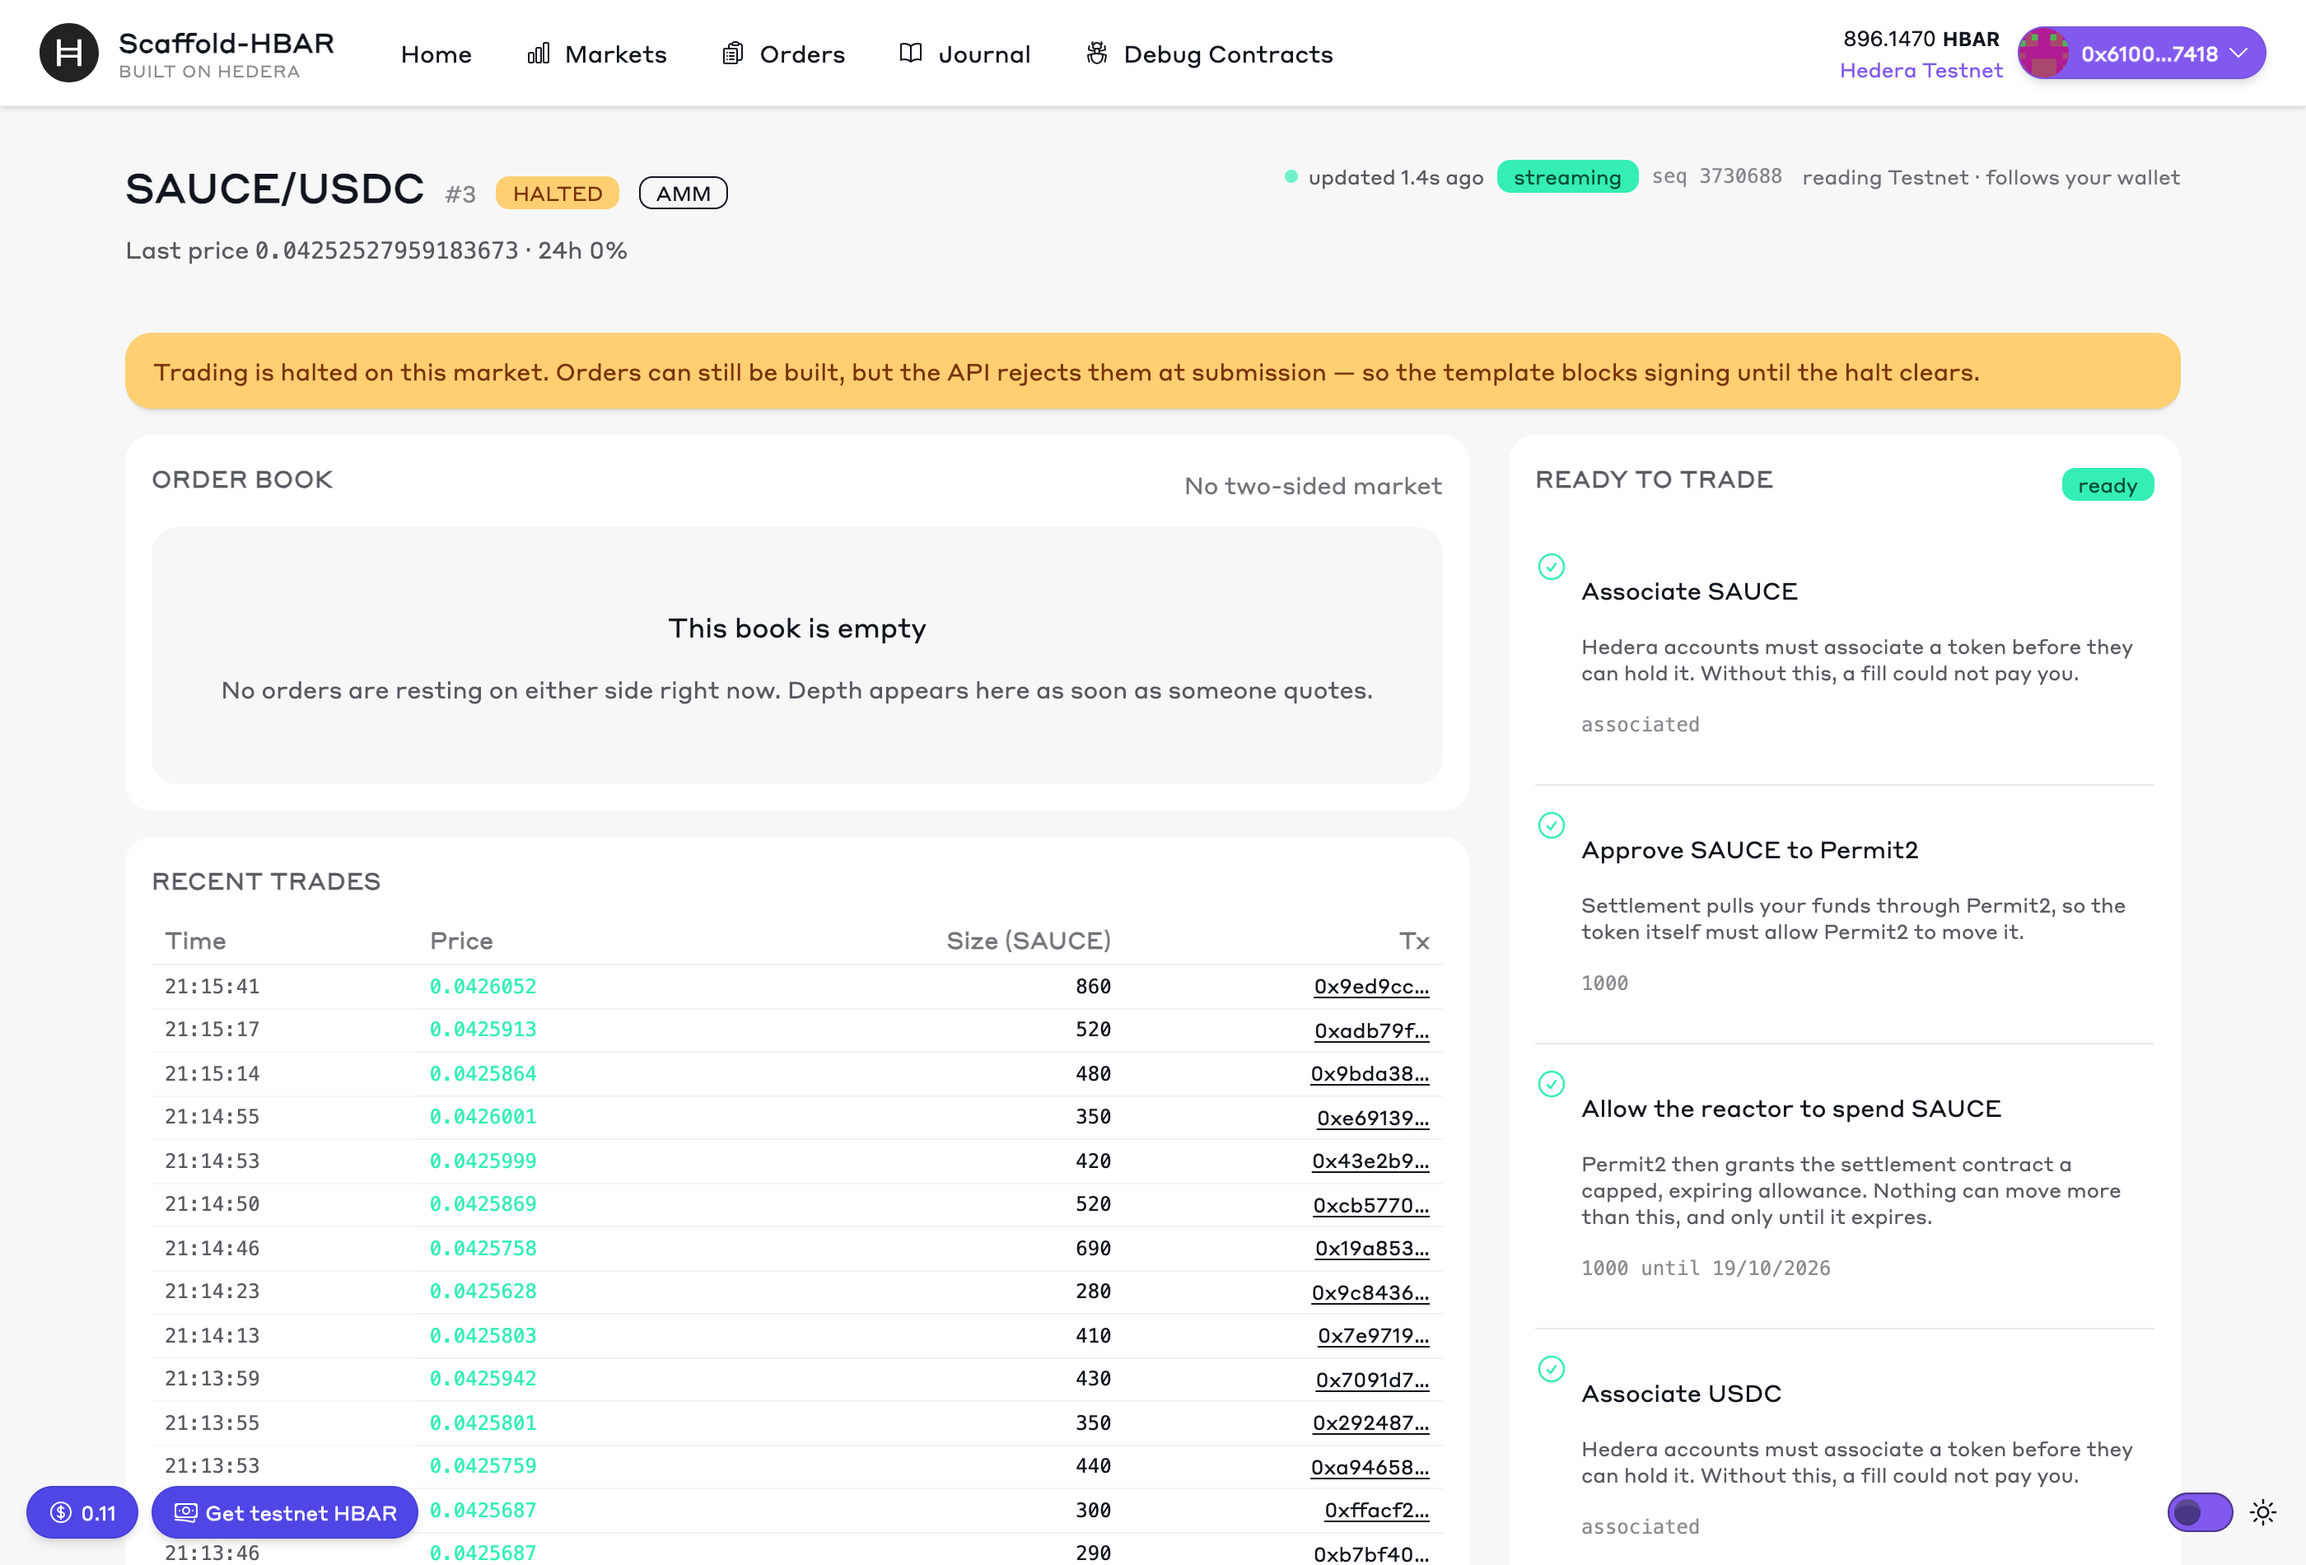
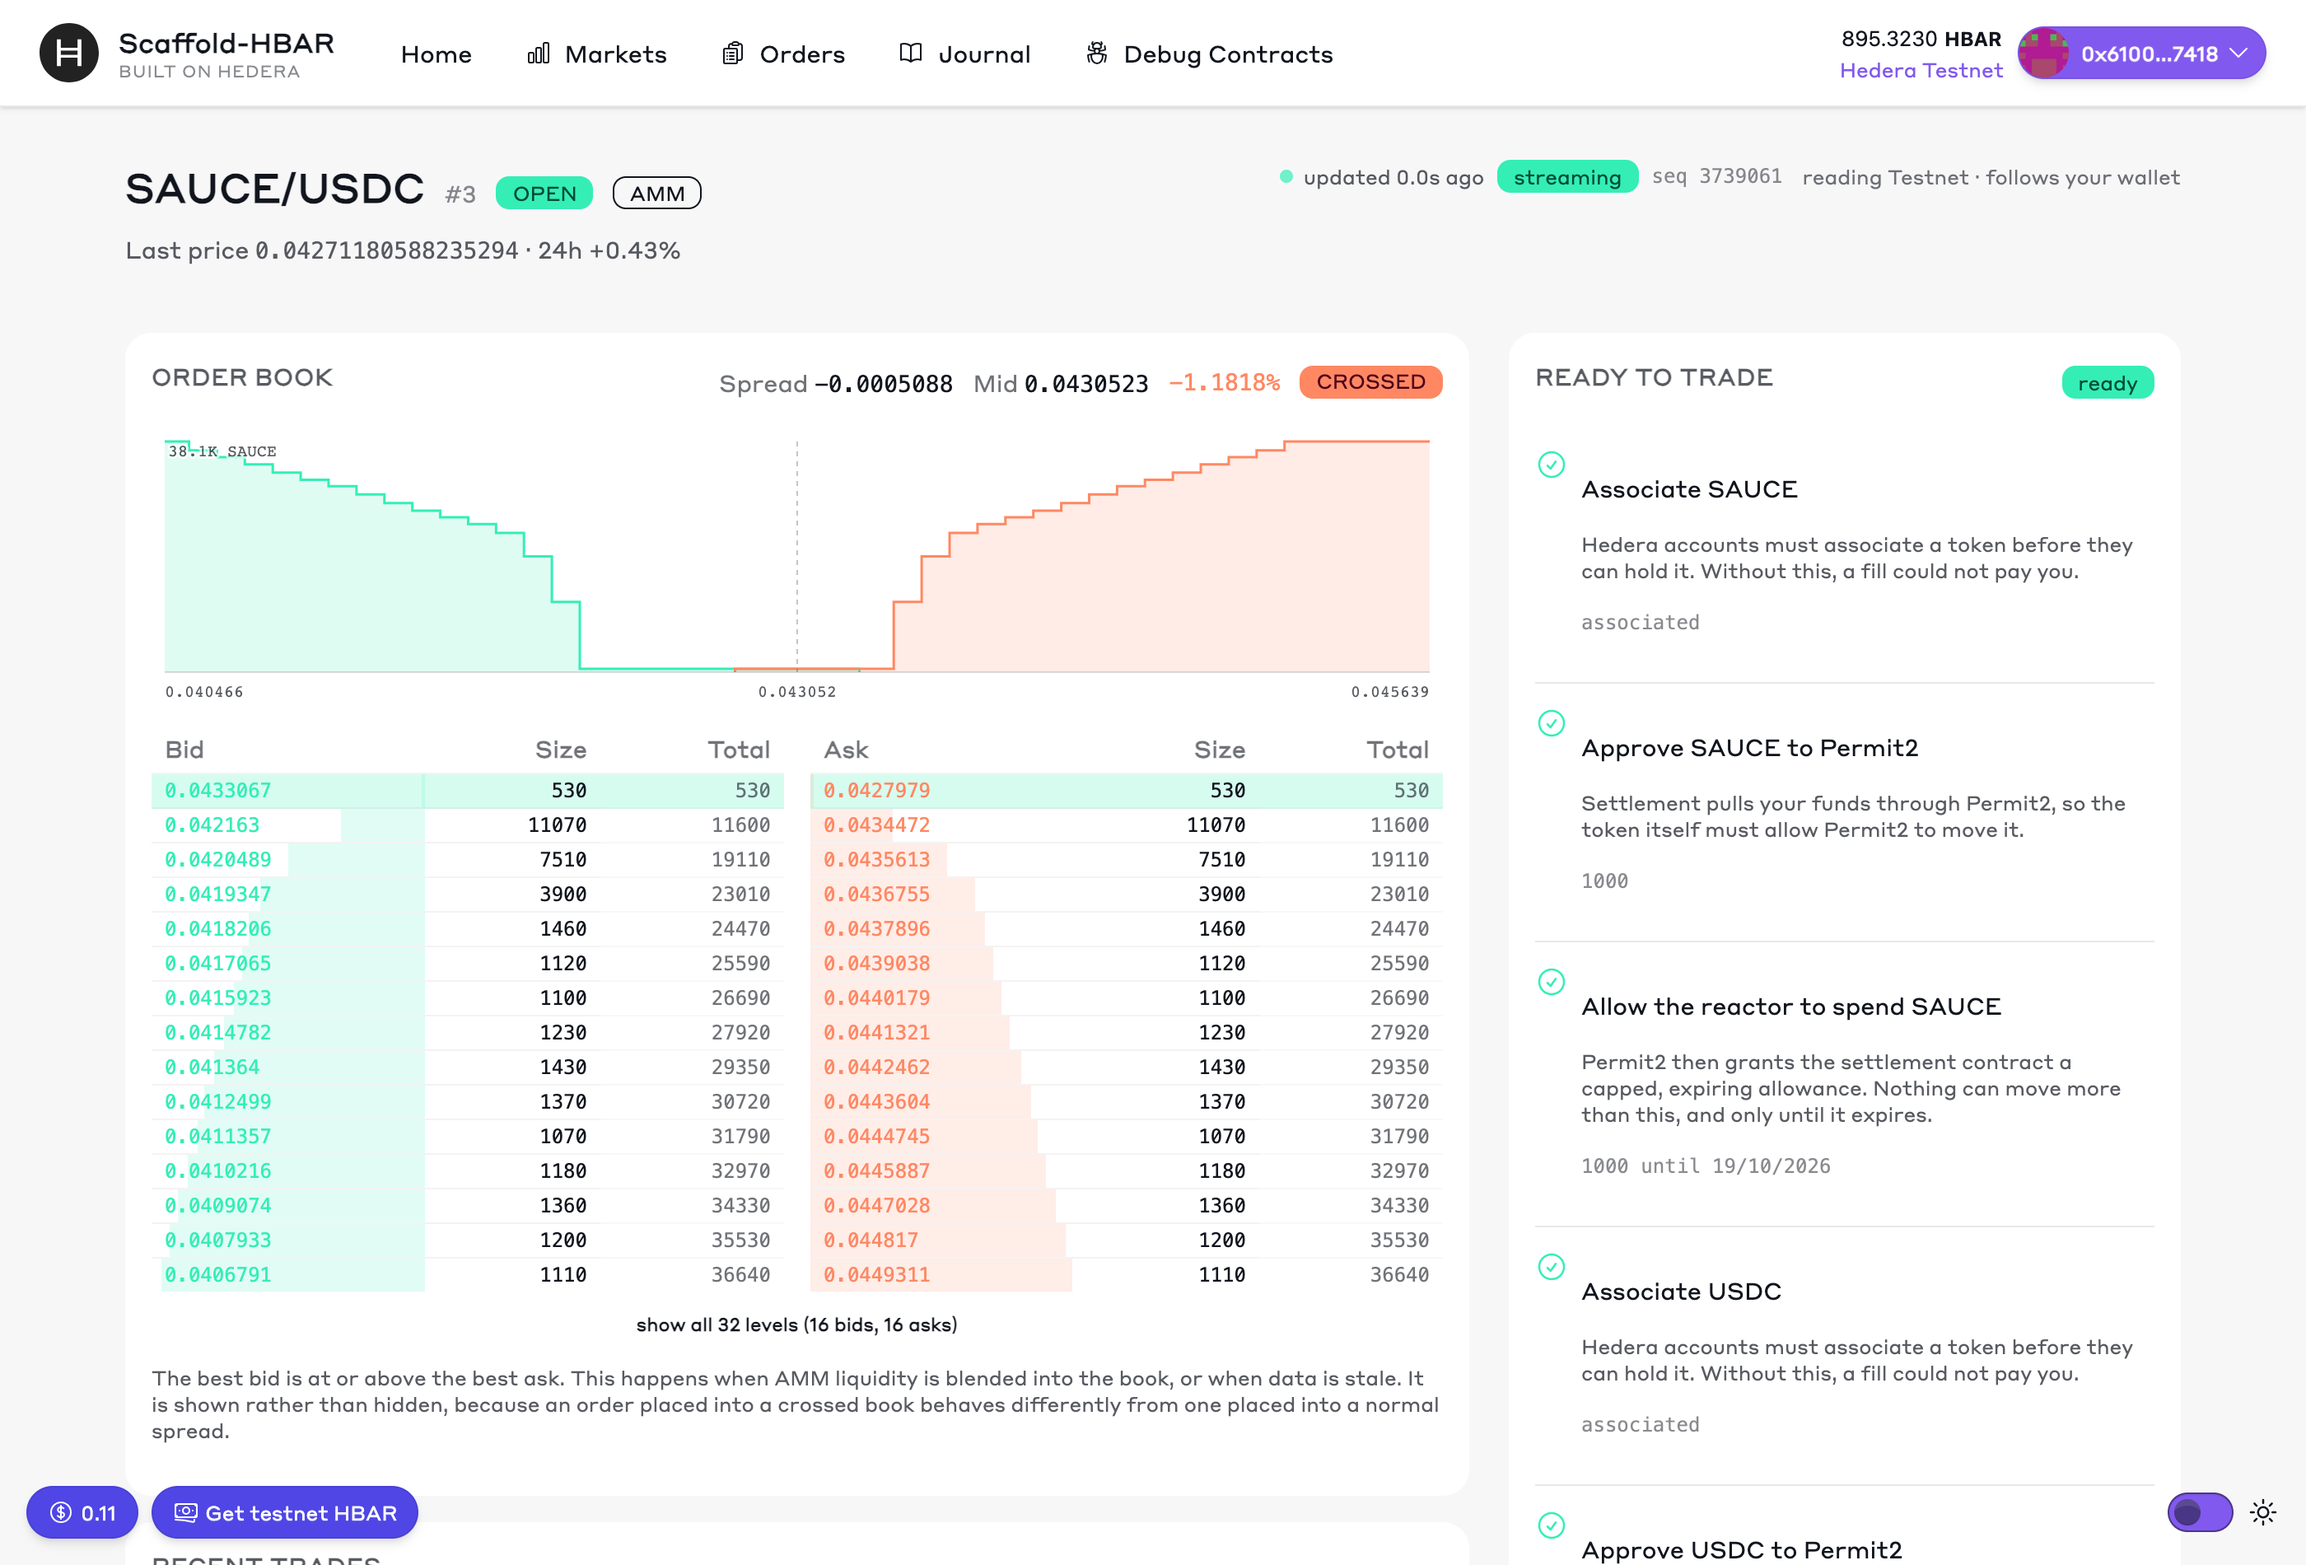
docs: screenshots from an open testnet, including a verified fill
Re-captured now that testnet book 3 has reopened: the wallet frame shows an
open market with a live book and the depth chart, the order ticket is ready
to submit, and the orders page lists real testnet orders, filled and
cancelled. Adds fill.png, the history of order 3506715 with its fill
verification passing, and a README passage explaining what the four checks
are. clob:shots now captures that frame whenever the account has a filled
order.

diff --git a/packages/hardhat/scripts/screenshots.ts b/packages/hardhat/scripts/screenshots.ts
@@ -145,6 +145,19 @@ const main = async () => {
     await settle("/Open \\(|Past \\(|No orders yet/.test(document.body.innerText)");
     await shot("orders");
 
+    // A verified fill, when the account has one: the most recent FILLED order's history,
+    // with the checks read from the settlement on-chain.
+    // Case-sensitive, so the "Filled" column header does not match; no word boundaries,
+    // because the text Playwright matches runs the cells together ("99.00%FILLEDhistory").
+    const filledRow = page.locator("tbody tr", { hasText: /FILLED/ }).first();
+    if (await filledRow.count()) {
+      await filledRow.getByRole("button", { name: "history" }).click();
+      await settle("/verified|check failed/.test(document.body.innerText)", 60_000);
+      await shotOf(page.locator("div.fixed > div").first(), "fill");
+      await page.getByRole("button", { name: "close" }).first().click();
+      await page.waitForTimeout(500);
+    }
+
     await page.getByRole("link", { name: "Journal" }).first().click();
     // Wait for the journal itself: the page being navigated away from also satisfies
     // "not loading", which is how an earlier run captured the orders page twice.

diff --git a/README.md b/README.md
@@ -114,9 +114,8 @@ contracts — rather than from the venue's view of your account.
 
 ![A market page with a wallet connected: depth streaming over the WebSocket, and all six onboarding steps green](docs/images/wallet.png)
 
-<p align="center"><em>Signed in: depth switches from polling to the WebSocket, and the six on-chain
-onboarding steps are checked against the chain. This market is halted, which the page says plainly
-rather than hiding.</em></p>
+<p align="center"><em>Testnet SAUCE/USDC, signed in: depth switches from polling to the WebSocket, and the
+six on-chain onboarding steps are checked against the chain.</em></p>
 
 The order ticket validates before it asks your wallet for anything: an off-tick price, a size
 that is not a whole lot, or an order below the minimum notional is named and refused here
@@ -127,15 +126,26 @@ rather than rejected by the venue after you have signed it.
 </p>
 
 <p align="center"><em>Buy or sell, post-only to guarantee the maker fee, and AMM settlement opt-in
-per order. The total and the fee are shown before signing — including on a halted market, where the
-order cannot be placed but the arithmetic still answers "what would this cost?".</em></p>
+per order. The total and the fee are shown before signing — on a halted market too, where the order
+cannot be placed but the arithmetic still answers "what would this cost?".</em></p>
 
 Signing in exchanges a wallet signature for a short-lived API token, which never leaves memory.
 
-![The orders page, signed in, showing a past order with its status and history](docs/images/orders.png)
+![The orders page, signed in, listing orders placed, filled and cancelled on testnet](docs/images/orders.png)
 
-<p align="center"><em>Your orders, read from SaucerSwap with a token held in memory only. Every fill is
-checked against the order you signed.</em></p>
+<p align="center"><em>Your orders, read from SaucerSwap with a token held in memory only — real testnet
+orders, filled and cancelled.</em></p>
+
+Open a filled order and every fill is checked on-chain against what you signed. The settlement is read
+from the mirror node, the fill that belongs to this order is picked out of it by swapper and nonce, and
+four things are checked: price, fee cap, deadline and size.
+
+<p align="center">
+  <img src="docs/images/fill.png" width="420" alt="A filled order's history with its fill verification: a taker fill, verified, with price, fee cap, deadline and size checks all passing" />
+</p>
+
+<p align="center"><em>Order 3506715 on testnet: placed, filled two seconds later, and verified — filled
+under the limit, a 1,997-pip fee under a 2,000-pip cap, before the deadline, within the size signed.</em></p>
 
 ![The journal page listing signed intents with their consensus timestamps and EIP-712 digests](docs/images/journal.png)
 
